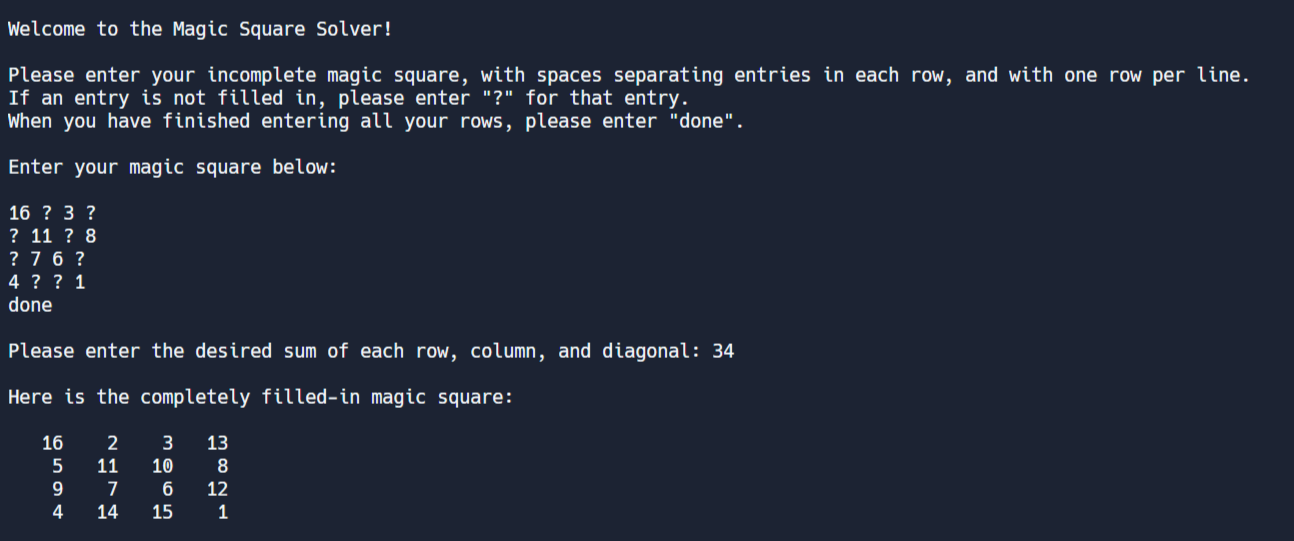
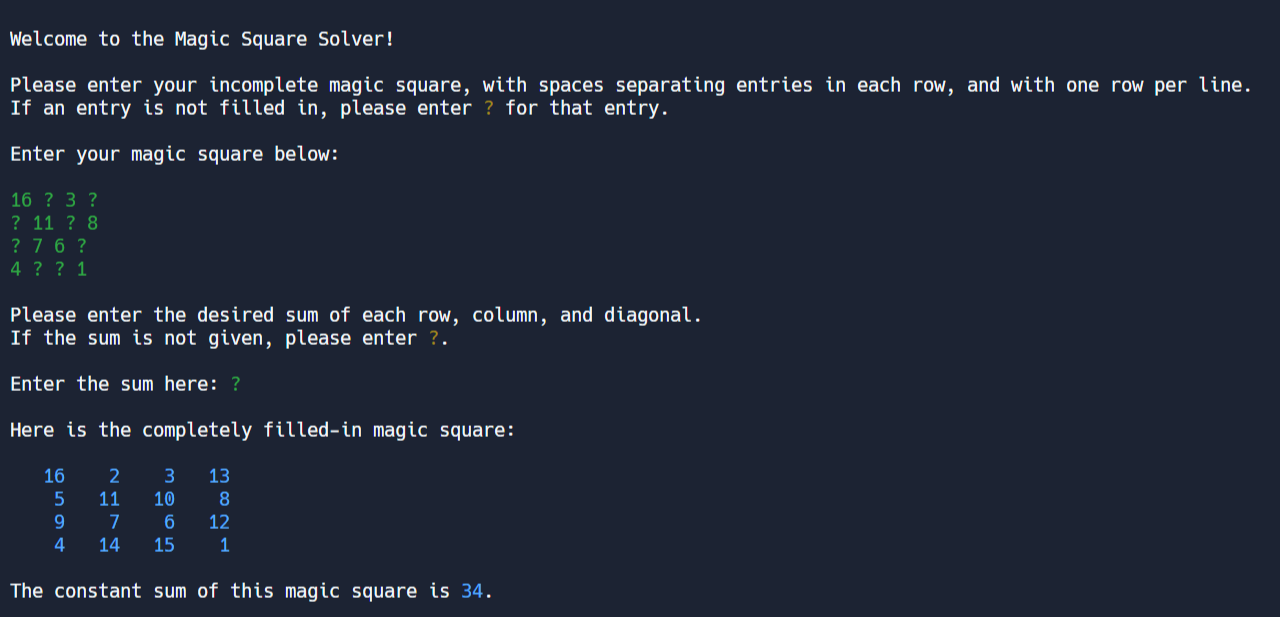
added coloured input and output

Changed region(s): [[0.0, 0.2957, 0.5625, 0.976], [0.0, 0.1183, 0.9688, 0.2662], [0.0, 0.0296, 0.3125, 0.0887]]

diff --git a/main.py b/main.py
@@ -1,9 +1,7 @@
-# WISHLIST:
-# (1) coloured output
-
 import numpy as np
 import scipy.linalg as la
 import numpy.linalg as nla
+import general.colour_util as cu
 
 from copy import deepcopy
 from typing import Optional
@@ -34,8 +32,10 @@ def int_precise(num: float) -> int:
 	return int(num + (0.1 if num > 0 else -0.1)) # 0.1 is to correct rounding errors in computer representation
 
 def exception_case(message: str, exception_type: type):
-	if input(f"\n{message}\nWould you like to continue anyway? Enter \"yes\" or \"no\": ") != "yes":
-		print("\nThe program will now terminate.\n")
+	if cu.input_coloured(f"\n{cu.ANSI_RED}{message}{cu.ANSI_NORMAL}\nWould you like to continue anyway? " +
+											 f"Enter {cu.ANSI_YELLOW}yes{cu.ANSI_NORMAL} or " +
+											 f"{cu.ANSI_YELLOW}no{cu.ANSI_NORMAL}: ", cu.ANSI_GREEN) != "yes":
+		print(f"{cu.ANSI_RED}\nThe program will now terminate.\n{cu.ANSI_NORMAL}")
 		raise exception_type
 		
 def welcome_and_input_data() -> tuple[MagicSquareValues, Optional[int], int]:
@@ -43,7 +43,7 @@ def welcome_and_input_data() -> tuple[MagicSquareValues, Optional[int], int]:
 	print("\nWelcome to the Magic Square Solver!\n\n" +
 				"Please enter your incomplete magic square, with spaces separating entries in each row, " +
 				"and with one row per line.\n" +
-				"If an entry is not filled in, please enter \"?\" for that entry.\n\n" +
+				f"If an entry is not filled in, please enter {cu.ANSI_YELLOW}?{cu.ANSI_NORMAL} for that entry.\n\n" +
 			  "Enter your magic square below:\n")
 
 	curr_input: str = ""
@@ -53,7 +53,7 @@ def welcome_and_input_data() -> tuple[MagicSquareValues, Optional[int], int]:
 	
 	while num_rows is None or curr_row_num <= num_rows:
 		
-		curr_input = input()
+		curr_input = cu.input_coloured("", cu.ANSI_GREEN)
 		
 		if curr_input != "done":
 
@@ -64,9 +64,9 @@ def welcome_and_input_data() -> tuple[MagicSquareValues, Optional[int], int]:
 			if num_rows is None:
 				num_rows = len(curr_row)
 			
-	sum_raw: str = input("\nPlease enter the desired sum of each row, column, and diagonal.\n" + 
-											 "If the sum is not given, please enter \"?\".\n\n" + 
-											 "Enter the sum here: ")
+	sum_raw: str = cu.input_coloured("\nPlease enter the desired sum of each row, column, and diagonal.\n" +
+																	 f"If the sum is not given, please enter {cu.ANSI_YELLOW}?{cu.ANSI_NORMAL}.\n\n" +
+																	 "Enter the sum here: ", cu.ANSI_GREEN)
 	
 	sum: Optional[int] = int(sum_raw) if sum_raw != "?" else None
 	variable_counter: int = 0
@@ -190,12 +190,12 @@ def print_formatted(ms: MagicSquareValues, ks: Optional[int]):
 
 	for row in padded:
 		for entry in row:
-			print(3 * " " + entry, end = "")
+			print(cu.ANSI_BLUE + 3 * " " + entry + cu.ANSI_NORMAL, end = "")
 		print()
 	print()
 
 	if ks is not None:
-		print(f"The constant sum of this magic square is {ks}.\n")
+		print(f"The constant sum of this magic square is {cu.ANSI_BLUE}{ks}{cu.ANSI_NORMAL}.\n")
 
 def check_sum(ms: MagicSquareValues, s: int):
 
@@ -216,8 +216,10 @@ def check_sum(ms: MagicSquareValues, s: int):
 	for sum_info in sums:
 		if sum_info[2] != s:
 			check_failed = True
-			print(f"!!! CHECK FAILURE: The sum of the entries in {sum_info[0]} {sum_info[1]} " +
-						f"is {sum_info[2]} (not {s} as expected).")
+			print(f"{cu.ANSI_RED}!!! CHECK FAILURE: " +
+						f"The sum of the entries in {cu.ANSI_BLUE}{sum_info[0]} {sum_info[1]}{cu.ANSI_RED} " +
+						f"is {cu.ANSI_BLUE}{sum_info[2]}{cu.ANSI_RED} " +
+						f"(not {cu.ANSI_BLUE}{s}{cu.ANSI_RED} as expected).{cu.ANSI_NORMAL}")
 
 	if check_failed:
 		print()

diff --git a/general/colour_util.py b/general/colour_util.py
@@ -1,0 +1,33 @@
+Colour: type = str
+
+ANSI_NORMAL: str = "\033[0m"
+
+ANSI_BLACK: str = "\033[30m"
+ANSI_RED: str = "\033[31m"
+ANSI_GREEN: str = "\033[32m"
+ANSI_YELLOW: str = "\033[33m"
+ANSI_BLUE: str = "\033[34m"
+ANSI_MAGENTA: str = "\033[35m"
+ANSI_CYAN: str = "\033[36m"
+ANSI_WHITE: str = "\033[37m"
+
+ANSI_BACKGROUND_BLACK: str = "\033[40m"
+ANSI_BACKGROUND_RED: str = "\033[41m"
+ANSI_BACKGROUND_GREEN: str = "\033[42m"
+ANSI_BACKGROUND_YELLOW: str = "\033[43m"
+ANSI_BACKGROUND_BLUE: str = "\033[44m"
+ANSI_BACKGROUND_MAGENTA: str = "\033[45m"
+ANSI_BACKGROUND_CYAN: str = "\033[46m"
+ANSI_BACKGROUND_WHITE: str = "\033[47m"
+
+ANSI_UNDERLINE: str = "\033[4m"
+ANSI_BOLD: str = "\033[1m"
+ANSI_ITALIC: str = "\033[3m"
+ANSI_INVERSE: str = "\033[7m"
+ANSI_STRIKETHROUGH: str = "\033[9m"
+
+def input_coloured(prompt: str, colour: Colour, orig_colour: Colour = ANSI_NORMAL) -> str:
+    print(prompt + colour, end = "")
+    inp: str = input()
+    print(orig_colour, end = "")
+    return inp
